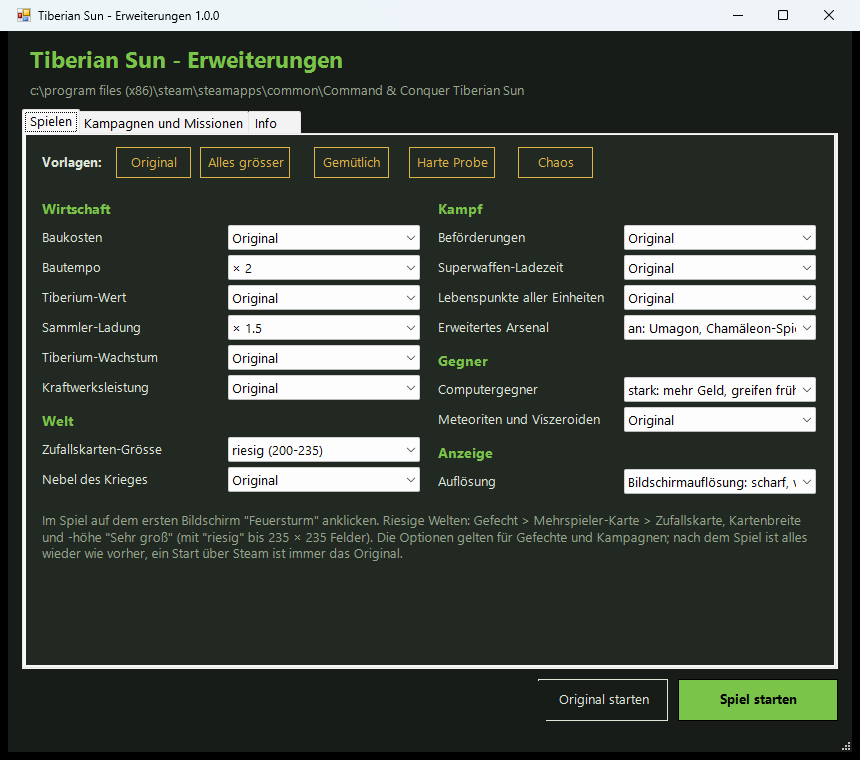
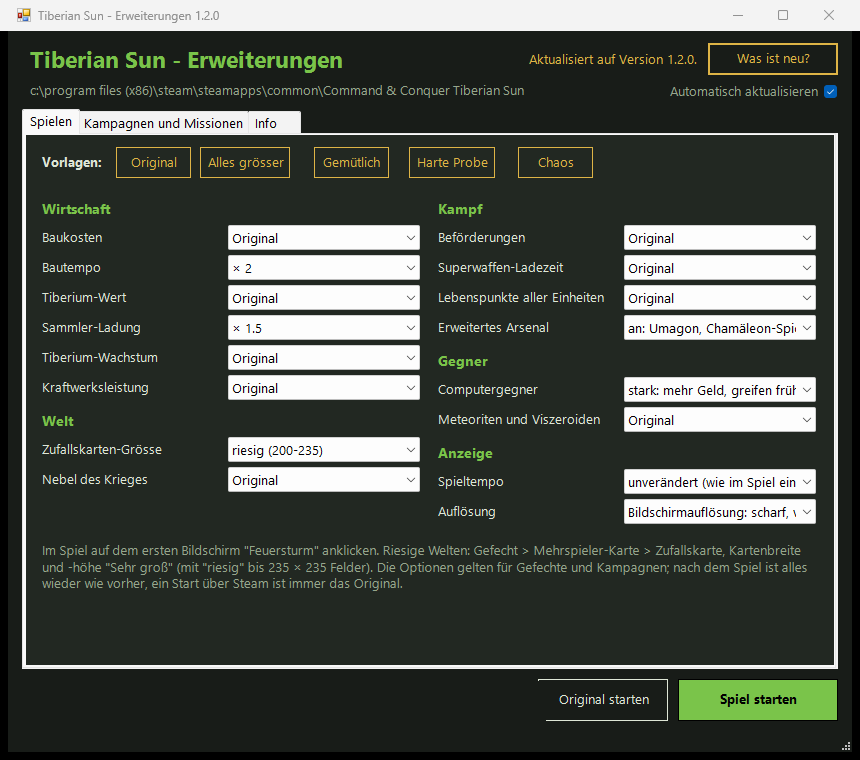
FINDINGS: real auto-update run; launcher picture with the update note

diff --git a/docs/FINDINGS.md b/docs/FINDINGS.md
@@ -184,6 +184,14 @@ Same scheme as the sister project anno1602-extensions (its version 3.3):
   only the button; box off: only the button; after an update: the note once), `get.ps1` through `Invoke-Expression`
   with a ZIP in the layout of a tag archive into a second sandbox (files equal the repository, 15 missions, temp
   folder gone) and with a broken ZIP (message, no exception, the window goes on).
+- **Real run, 2026-11-16 05:35**, after publishing release 1.2.0: the one-line installer (real download from GitHub)
+  installed 1.2.0 over 1.1.0 (which has no update check) and opened the launcher "Tiberian Sun - Erweiterungen
+  1.2.0"; `settings.json` kept its six option values and got `AutoUpdate=1`, `LastVersion=1.2.0`. Then
+  `version.txt` set to `1.1.9` and the launcher started through the desktop shortcut at 05:35:57: it found v1.2.0
+  and ran the update by itself; the installer wrote `version.txt` 1.2.0 at 05:36:02 and the missions at 05:36:04
+  and opened the new launcher at 05:36:04, which showed "Aktualisiert auf Version 1.2.0." with "Was ist neu?"
+  (picture: `docs/images/launcher-de.png`). Afterwards `UpdateTried=1.2.0 2026-11-16`, option values unchanged, no
+  update script and no setup folder left in `%TEMP%`, SUN.INI unchanged, no EXPAND99.MIX in the game folder.
 
 ## Strings, for orientation
 
